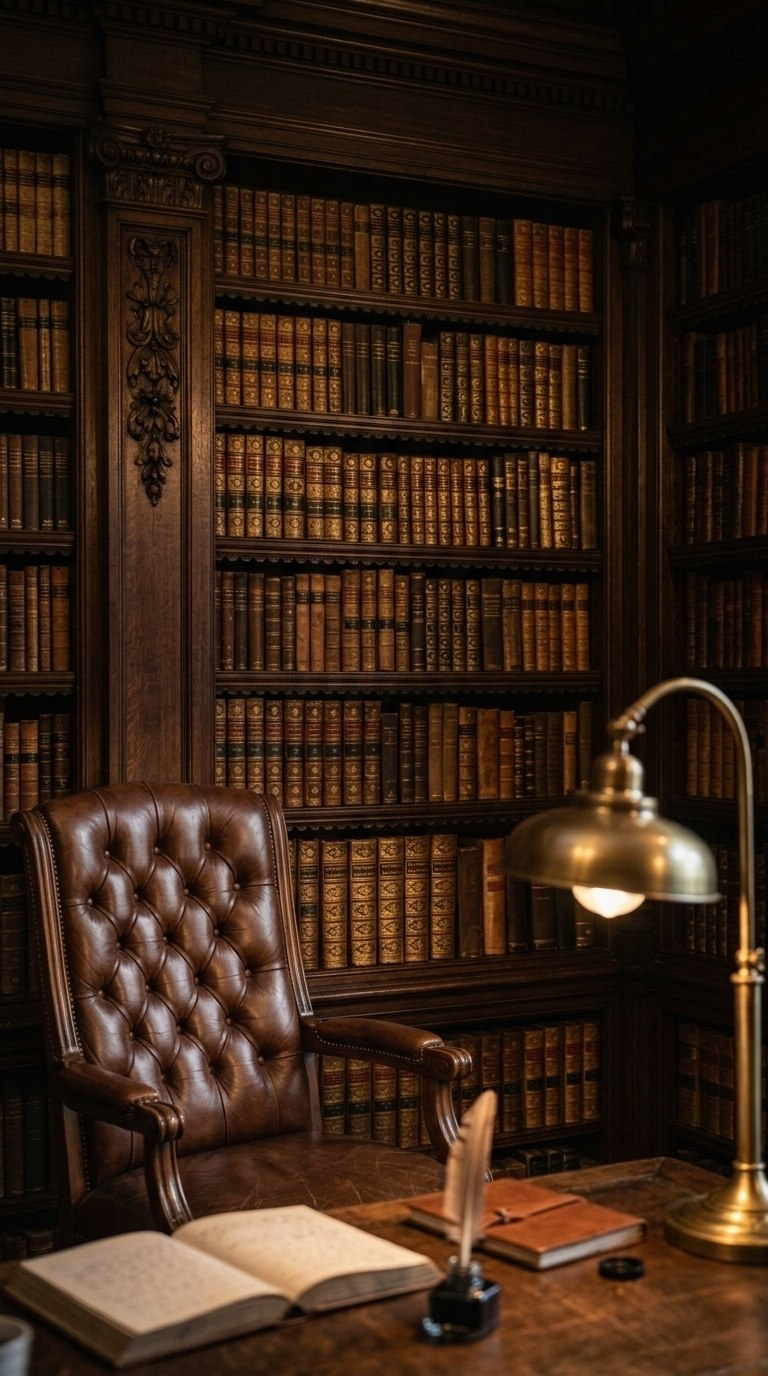
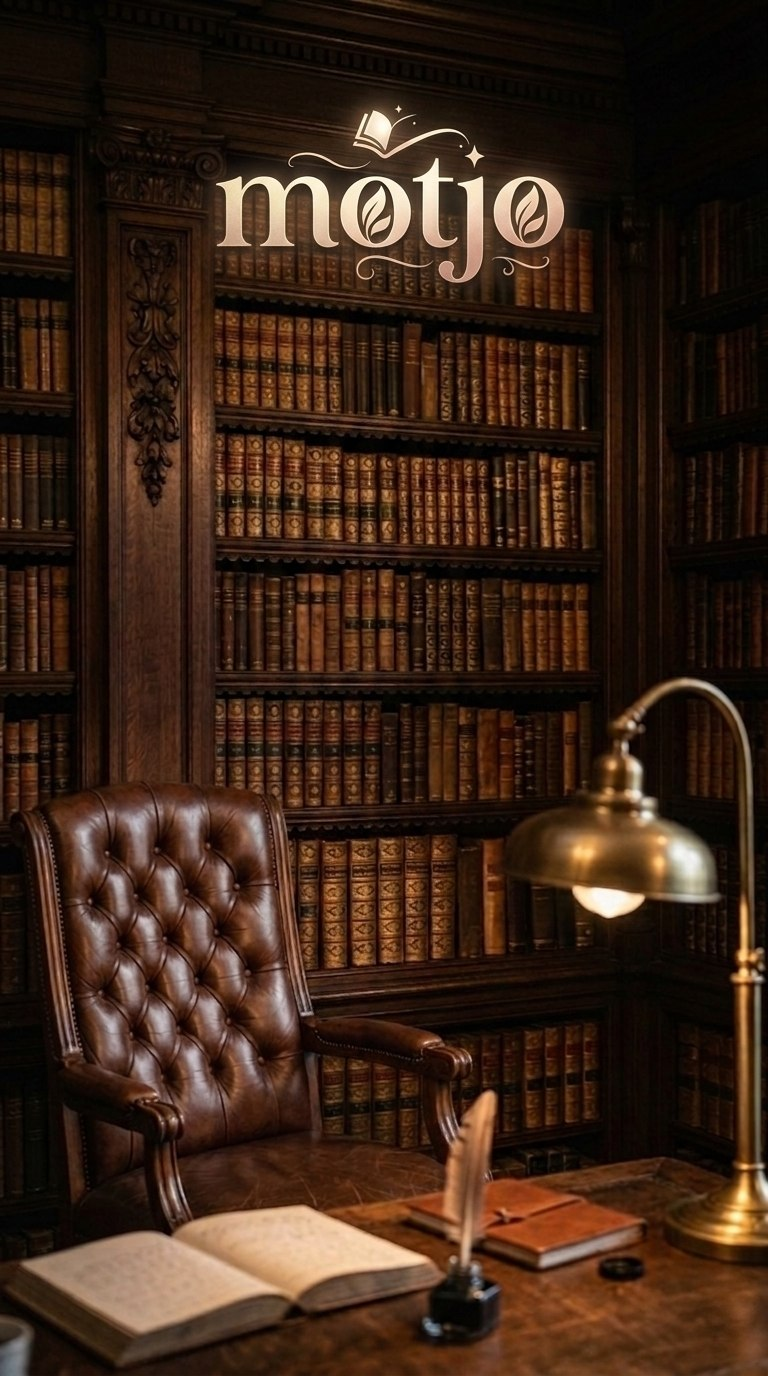
style: update landing page to 100% full screen single page
- Replace background image with new labeled 'motjo' logo image
- Remove all Bratasena text descriptions on landing page (motjo multi-novel portal)
- Adjust button container to center/horizontal (Library & wa.me)
- Add floating copyright footer to ekosetyobudi -> mailto
- Clean up unused sections (about & scrolling footer)
- Consistent branding in library navigation bar

diff --git a/index.html b/index.html
@@ -4,8 +4,8 @@
   <meta charset="UTF-8">
   <meta name="viewport" content="width=device-width, initial-scale=1.0, maximum-scale=1.0, user-scalable=no">
   <meta name="theme-color" content="#0a0a0f">
-  <meta name="description" content="Bratasena — Tahta Darah. Novel fiksi 4 season. Drama bisnis, keluarga, thriller korporat.">
-  <title>Bratasena — Perpustakaan Digital</title>
+  <meta name="description" content="motjo — Perpustakaan Digital fiksi & novel karya ekosetyobudi.">
+  <title>motjo — Perpustakaan Digital</title>
   <link rel="stylesheet" href="css/style.css">
   <style>
     /* Auth buttons on the hero image itself — positioned absolutely */
@@ -25,9 +25,46 @@
       .hero-auth { top: 20px; right: 24px; }
       .hero-auth .btn { padding: 10px 22px; font-size: 0.85rem; }
     }
+    
+    /* Center container adjustment for no text */
+    .hero-content {
+      display: flex;
+      flex-direction: column;
+      align-items: center;
+      justify-content: center;
+      height: 100%;
+      margin-top: 120px; /* Push actions lower to not block the motjo logo on image */
+    }
+
+    .hero-actions {
+      display: flex;
+      flex-direction: row; /* Horizontal buttons */
+      gap: 12px;
+      width: 100%;
+      max-width: 480px;
+      justify-content: center;
+      padding: 0 16px;
+    }
+
+    .hero-actions .btn {
+      flex: 1;
+      min-width: unset;
+      padding: 12px 18px;
+      font-size: 0.88rem;
+    }
+    
+    @media (max-width: 400px) {
+      .hero-actions {
+        flex-direction: column;
+        gap: 8px;
+      }
+      .hero-actions .btn {
+        width: 100%;
+      }
+    }
   </style>
 </head>
-<body>
+<body class="page-landing">
 
 <!-- ===== AUTH MODAL ===== -->
 <div class="modal-overlay" id="auth-modal">
@@ -63,8 +100,8 @@
 
 <!-- ===== HERO / LANDING ===== -->
 <section class="hero">
-  <!-- IMAGE HERO: Study room klasik 9:16 -->
-  <img class="hero-image" id="hero-image" src="assets/hero-study.jpg" alt="Meja kerja klasik dengan rak buku" loading="eager">
+  <!-- IMAGE HERO: Study room klasik 9:16 dengan logo motjo -->
+  <img class="hero-image" id="hero-image" src="assets/hero-study.jpg" alt="motjo library" loading="eager">
 
   <!-- Auth buttons on hero -->
   <div class="hero-auth" data-auth="logged-out">
@@ -72,74 +109,25 @@
     <button class="btn btn-gold" onclick="App.openModal('auth-modal')">Masuk</button>
   </div>
   <div class="hero-auth" data-auth="logged-in" style="display:none;">
-    <span style="color:var(--text-secondary);font-family:var(--font-ui);font-size:0.83rem;display:flex;align-items:center;gap:6px;">
+    <span style="color:var(--text-secondary);font-family:var(--font-ui);font-size:0.83rem;display:flex;align-items:center;gap:6px;margin-right:8px;">
       👤 <span data-auth="username"></span>
     </span>
     <button class="btn btn-ghost" onclick="Auth.logout();location.reload();">Keluar</button>
-    <a href="library.html" class="btn btn-gold">Perpustakaan</a>
   </div>
 
   <div class="hero-content">
-    <div class="hero-badge">Novel 4 Season</div>
-    <h1 class="hero-title">Bratasena</h1>
-    <p class="hero-subtitle">— Tahta Darah —</p>
-    <p class="hero-tagline">Warisan • Intrik • Harga Kesetiaan</p>
-    
-    <div class="hero-actions" data-auth="logged-out">
-      <button class="btn btn-gold" onclick="App.openModal('auth-modal')">Mulai Membaca</button>
-      <a href="library.html" class="btn btn-outline">Lihat Perpustakaan</a>
-    </div>
-    <div class="hero-actions" data-auth="logged-in" style="display:none;">
-      <a href="library.html" class="btn btn-gold">Lanjut Membaca</a>
+    <!-- Teks Bratasena dihapus, langsung tombol aksi di bawah logo motjo gambar -->
+    <div class="hero-actions">
+      <a href="library.html" class="btn btn-gold">📚 Perpustakaan</a>
+      <a href="https://wa.me/62895428301010" target="_blank" class="btn btn-outline">💬 Hubungi Kami</a>
     </div>
   </div>
 
-  <div class="hero-footer">
-    <p class="scroll-hint">⌄ Geser ke bawah ⌄</p>
+  <!-- FLOATING COPYRIGHT FOOTER -->
+  <div class="hero-footer-copyright">
+    &copy; 2026 <a href="mailto:paranparanjare@gmail.com">ekosetyobudi</a>. All rights reserved.
   </div>
 </section>
-
-<!-- ===== ABOUT SECTION ===== -->
-<section class="about-section">
-  <h2>Tentang Bratasena</h2>
-  <p>
-    Baskoro Haryo Bratasena — seorang pengacara kepailitan di Jakarta — 
-    terseret ke pusaran perebutan kerajaan rokok keluarga setelah kematian ayahnya. 
-    Dari akar tanah Kediri hingga menara kaca SCBD Jakarta, 
-    dari gang-gang Semarang hingga ke sarang naga di Singapura.
-  </p>
-  <p style="margin-top:12px;color:var(--text-muted);font-style:italic;">
-    Drama bisnis, keluarga, dan thriller korporat yang mengikat dari bab pertama hingga akhir.
-  </p>
-
-  <div class="stats-row">
-    <div class="stat-item">
-      <span class="stat-number">4</span>
-      <span class="stat-label">Season</span>
-    </div>
-    <div class="stat-item">
-      <span class="stat-number">80</span>
-      <span class="stat-label">Bab</span>
-    </div>
-    <div class="stat-item">
-      <span class="stat-number">8</span>
-      <span class="stat-label">Tokoh Utama</span>
-    </div>
-    <div class="stat-item">
-      <span class="stat-number">3</span>
-      <span class="stat-label">Kota</span>
-    </div>
-  </div>
-</section>
-
-<!-- ===== FOOTER ===== -->
-<footer class="site-footer">
-  <p>Bratasena — Tahta Darah &copy; 2026</p>
-  <p style="margin-top:4px;">Ditulis oleh <strong>paranparanjare-bot</strong> via Hermes Agent</p>
-  <p style="margin-top:8px;font-size:0.7rem;">
-    <a href="https://github.com/paranparanjare-bot/bratasena-autonovel" target="_blank">GitHub</a>
-  </p>
-</footer>
 
 <!-- ===== NOTIFICATION CONTAINER ===== -->
 <div id="notification-container"></div>

diff --git a/css/style.css b/css/style.css
@@ -185,11 +185,19 @@ img { max-width: 100%; display: block; }
 .hero {
   position: relative;
   width: 100%;
-  min-height: 100vh;
+  height: 100vh;
+  height: 100svh; /* support for mobile dynamic viewport */
   display: flex;
   align-items: center;
   justify-content: center;
   overflow: hidden;
+}
+
+/* Force body to not scroll when on index/landing */
+body.page-landing {
+  overflow: hidden;
+  height: 100vh;
+  height: 100svh;
 }
 
 /* The 9:16 image slot */
@@ -304,27 +312,26 @@ img { max-width: 100%; display: block; }
   font-size: 1rem;
 }
 
-.hero-footer {
+/* Landing Page Floating Footer */
+.hero-footer-copyright {
   position: absolute;
-  bottom: 24px;
+  bottom: 16px;
   left: 50%;
   transform: translateX(-50%);
-  z-index: 2;
+  z-index: 10;
   text-align: center;
-}
-
-.hero-footer .scroll-hint {
   font-family: var(--font-ui);
-  font-size: 0.7rem;
+  font-size: 0.72rem;
   color: var(--text-muted);
-  letter-spacing: 3px;
-  text-transform: uppercase;
-  animation: bounce 2s infinite;
+  width: 90%;
 }
 
-@keyframes bounce {
-  0%, 100% { transform: translateY(0); opacity: 0.4; }
-  50% { transform: translateY(6px); opacity: 1; }
+.hero-footer-copyright a {
+  color: var(--gold-dim);
+  transition: color 0.3s;
+}
+.hero-footer-copyright a:hover {
+  color: var(--gold);
 }
 
 /* Auth buttons on hero */

diff --git a/library.html b/library.html
@@ -40,7 +40,7 @@
 
 <!-- ===== TOP BAR ===== -->
 <nav class="top-bar">
-  <a href="index.html" class="top-bar-logo">Bratasena <span>· Library</span></a>
+  <a href="index.html" class="top-bar-logo">motjo <span>· Library</span></a>
   <div class="top-bar-right">
     <span style="font-family:var(--font-ui);font-size:0.8rem;color:var(--text-muted);" data-auth="logged-in">
       👤 <span data-auth="username"></span>
@@ -65,7 +65,7 @@
 
 <!-- ===== FOOTER ===== -->
 <footer class="site-footer">
-  <p>Bratasena — Tahta Darah &copy; 2026</p>
+  <p>&copy; 2026 <a href="mailto:paranparanjare@gmail.com">ekosetyobudi</a></p>
 </footer>
 
 <!-- ===== NOTIFICATION CONTAINER ===== -->
